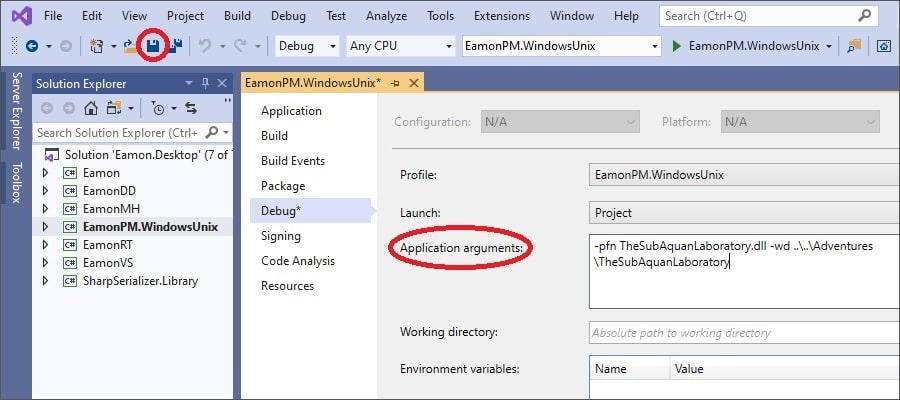
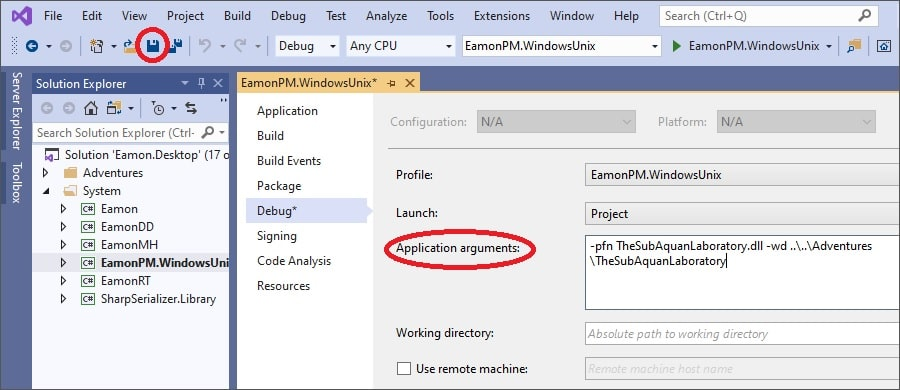
Eamon/work branch nov 2020 (#11)
* Started overhaul of WorkingDraft to reflect new solution/project configuration.

* Recreated some WorkingDraft images.

* Recreated some WorkingDraft images.

* Recreated some WorkingDraft images.

* Recreated some WorkingDraft images.

* Recreated some WorkingDraft images.

* Finished overhaul of WorkingDraft to reflect new solution/project configuration.

diff --git a/pages/WorkingDraft/WorkingDraft.html b/pages/WorkingDraft/WorkingDraft.html
@@ -631,7 +631,7 @@
     </div>
     <br>
     <ol start="3">
-      <li>Open the Eamon.Adventures solution with Visual Studio.</li>
+      <li>Open the Eamon.Desktop solution with Visual Studio.</li>
     </ol>
     <br>
     <div style="text-align: center;"><img style="max-width: 100%; max-height: 100%;"
@@ -659,29 +659,6 @@
     </div>
     <br>
     <ol start="6">
-      <li>Repeat steps 3 through 5 using the Eamon.Desktop solution. You will
-        probably want to open a separate copy of Visual Studio 2019 to do so
-        since you will be recompiling both solutions shortly. </li>
-    </ol>
-    <br>
-    <div style="text-align: center;"><img style="max-width: 100%; max-height: 100%;"
-
-        title="OpenECSWithVS02.jpg" alt="OpenECSWithVS02.jpg" src="../../assets/images/WorkingDraft/OpenECSWithVS02.jpg">
-    </div>
-    <br>
-    <br>
-    <div style="text-align: center;"><img style="max-width: 100%; max-height: 100%;"
-
-        title="VSBatchBuild02.jpg" alt="VSBatchBuild02.jpg" src="../../assets/images/WorkingDraft/VSBatchBuild02.jpg">
-    </div>
-    <br>
-    <br>
-    <div style="text-align: center;"><img style="max-width: 100%; max-height: 100%;"
-
-        title="VSBatchBuildClean02.jpg" alt="VSBatchBuildClean02.jpg" src="../../assets/images/WorkingDraft/VSBatchBuildClean02.jpg">
-    </div>
-    <br>
-    <ol start="7">
       <li>Ensure the system is in Debug mode (shown inside red circle). In the
         Eamon.Desktop solution, right-click on the Solution node and click Build
         Solution.</li>
@@ -692,18 +669,7 @@
         title="VSBuildSolutionDebug.jpg" alt="VSBuildSolutionDebug.jpg" src="../../assets/images/WorkingDraft/VSBuildSolutionDebug.jpg">
     </div>
     <br>
-    <ol start="8">
-      <li>Ensure the system is in Debug mode (shown inside red circle). In the
-        Eamon.Adventures solution, right-click on the Solution node and click
-        Build Solution.</li>
-    </ol>
-    <br>
-    <div style="text-align: center;"><img style="max-width: 100%; max-height: 100%;"
-
-        title="VSBuildSolutionDebug02.jpg" alt="VSBuildSolutionDebug02.jpg" src="../../assets/images/WorkingDraft/VSBuildSolutionDebug02.jpg">
-    </div>
-    <br>
-    <ol start="9">
+    <ol start="7">
       <li>There should be no errors in the previous steps (see Output Windows).
         Right-click on the EamonPM.WindowsUnix project and select Set as Startup
         Project.</li>
@@ -714,7 +680,7 @@
         title="VSSetAsStartupProject.jpg" alt="VSSetAsStartupProject.jpg" src="../../assets/images/WorkingDraft/VSSetAsStartupProject.jpg">
     </div>
     <br>
-    <ol start="10">
+    <ol start="8">
       <li>Right-click on the EamonPM.WindowsUnix project and select Properties.</li>
     </ol>
     <br>
@@ -723,7 +689,7 @@
         title="VSSetProperties.jpg" alt="VSSetProperties.jpg" src="../../assets/images/WorkingDraft/VSSetProperties.jpg">
     </div>
     <br>
-    <ol start="11">
+    <ol start="9">
       <li>Set the Application arguments to the appropriate command line string.
         In this case, the string was taken directly from
         ResumeTheSubAquanLaboratory.bat. Make sure you save the changes (click
@@ -751,14 +717,12 @@
         title="VSProperties04.jpg" alt="VSProperties04.jpg" src="../../assets/images/WorkingDraft/VSProperties04.jpg">
     </div>
     <br>
-    <ol start="12">
-      <li>Put your breakpoints in the code. In the following examples, the
-        program will break just as it enters the game's main loop, and also as
-        an attack occurs in combat. The final example shows how you must
-        manually load a game’s source code file to put a breakpoint in it. You
-        can set breakpoints anywhere you like in the running program; in our
-        case here, that includes Eamon.dll, EamonRT.dll, and
-        TheSubAquanLaboratory.dll.</li>
+    <ol start="10">
+      <li>Put your breakpoints in the code. In the following examples, the program
+	  will break just as it enters the game's main loop, as an attack occurs in
+	  combat, and also in The Sub-Aquan Laboratory's PowerCommand subclass. You
+	  can set breakpoints anywhere you like in the running program; in our case
+	  here, that includes EamonRT.dll and TheSubAquanLaboratory.dll.</li>
     </ol>
     <br>
     <div style="text-align: center;"><img style="max-width: 100%; max-height: 100%;"
@@ -778,7 +742,7 @@
         title="VSSetBreakpoint03.jpg" alt="VSSetBreakpoint03.jpg" src="../../assets/images/WorkingDraft/VSSetBreakpoint03.jpg">
     </div>
     <br>
-    <ol start="13">
+    <ol start="11">
       <li>Press F5 to run the program. The game will launch just as if you had
         double-clicked the ResumeTheSubAquanLaboratory.bat file. If you saved
         any games, you can restore them at this point as you typically would.
@@ -805,14 +769,11 @@
         src="../../assets/images/WorkingDraft/LoadAdventureSupportMenu.jpg"> </div>
     <br>
     <p>The Adventure Support Menu allows Eamon CS to integrate seamlessly with
-	  Visual Studio by using the dotnet.exe program.  This integration paradigm
-	  works in both Windows and Unix, even if Visual Studio is not present.  But
-	  when creating a new adventure, there appears to be a minimum requirement
-	  that .NET Core 3.0+ SDK be on your system for total integration. When
-	  dotnet.exe adds an adventure project to the Eamon.Adventures solution,
-	  it uses the --in-root parameter, an option not available in earlier
-	  versions of .NET Core. If it fails, for this reason, you should add the
-	  .csproj file to the solution yourself and manually recompile the game.</p>
+	Visual Studio by using the dotnet.exe program. With the .NET Core SDK installed,
+	this integration paradigm works in both Windows and Unix, even if Visual Studio
+	is not present. But it hasn't been tested with the .NET Core Runtime and may or
+	may not work. If the integration process fails for any reason, you should add
+	the .csproj file to the solution yourself and manually recompile the game.</p>
     <p> Before proceeding further, if you downloaded the .zip file for Eamon CS,
       it might make sense to back up your repository so you can revert if
       necessary. For those who cloned the repository from GitHub, it might make
@@ -825,7 +786,7 @@
       <li>Generates all needed code (Custom adventures only)</li>
       <li>Creates all necessary QuickLaunch .bat and .sh files</li>
       <li>Adds the game to the appropriate Adventure database(s)</li>
-      <li>Adds the game project to Eamon.Adventures.sln (Custom adventures only)</li>
+      <li>Adds the game project to Eamon.Desktop.sln (Custom adventures only)</li>
       <li>Rebuilds the game project, producing game library/binary files (Custom
         adventures only)</li>
     </ul>
@@ -871,7 +832,7 @@
       to suit your needs. If you want to produce a complex, interesting game
       with lots of special effects, you will almost certainly need to create new
       classes for your adventure. There are numerous examples of this in the
-      adventures contained in the Eamon.Adventures solution. It turns out, the
+      adventures contained in the Eamon.Desktop solution. It turns out, the
       layout of folders and namespaces in Eamon CS lends itself to a simple code
       generation mechanism based on a template discovered while studying the
       already-created games. You can use the Adventure Support Menu to generate
@@ -923,7 +884,7 @@
     <br>
     <ol start="3">
       <li>The following screenshots show what the code generator produced. If
-        you compare this output with the games in Eamon.Adventures you will
+        you compare this output with the games in Eamon.Desktop you will
         quickly see parallels between them. You should fix anything Intellisense
         flags as being invalid, and also hover over the various parts of the
         code to ensure the specified classes/interfaces are correct.</li>
@@ -959,21 +920,18 @@
     </div>
     <br>
     <ol start="4">
-      <li>When adding custom code, type public override and choose the right
-        property or method from the list presented by Intellisense. It is often
-        useful to refer to (or use code from) the parent classes in the Eamon CS
-        base libraries, but when the existing games migrated to the
-        Eamon.Adventures solution they were changed to use file referencing
-        rather than project referencing. Unfortunately, this prevents quick
-        navigation to the parent classes using the typical right-click and Go to
-        Definition or Go to Implementation. Doing this brings up only metadata.
-        There are third-party tools that can overcome this limitation using
-        library de-compilation, but in general, they are commercial products
-        with no Community Edition available. To overcome this, you can open two
-        copies of Visual Studio, one with Eamon.Desktop loaded, the other with
-        Eamon.Adventures. Then when you want to access a parent class, method or
-        property, type the name into the Search Bar and double click the found
-        item. Doing this appears to be the best option available.</li>
+      <li>When adding custom code, type public override, and choose the right
+	  property or method from the list presented by Intellisense. It is often
+	  useful to refer to (or use code from) the parent classes in the Eamon CS
+	  base libraries.  The system uses project referencing throughout, allowing
+	  quick navigation to any class, method, property, or type definition through
+	  a right-click context menu.  Double-click on the symbol to look up, then
+	  right-click on it and choose one of the appropriate menu options to take
+	  you to the code in question.  The Peek Definition and Go To Definition menu
+	  items are what you'll probably use most often, but there are a few other
+	  useful options as well.  When you have finished, click the back arrow to
+	  return to your previous location.  The following example shows quick access
+	  to EamonRT's CombatSystem class.</li>
     </ol>
     <br>
     <div style="text-align: center;"><img style="max-width: 100%; max-height: 100%;"
@@ -1053,7 +1011,7 @@
       from your Eamon CS system by doing the following:</p>
     <ul>
       <li>Deletes the game library/binary files (Custom adventures only)</li>
-      <li>Removes the game project from Eamon.Adventures.sln (Custom adventures
+      <li>Removes the game project from Eamon.Desktop.sln (Custom adventures
         only)</li>
       <li>Removes the game from the appropriate Adventure database(s)</li>
       <li>Deletes the game folder under Adventures</li>
